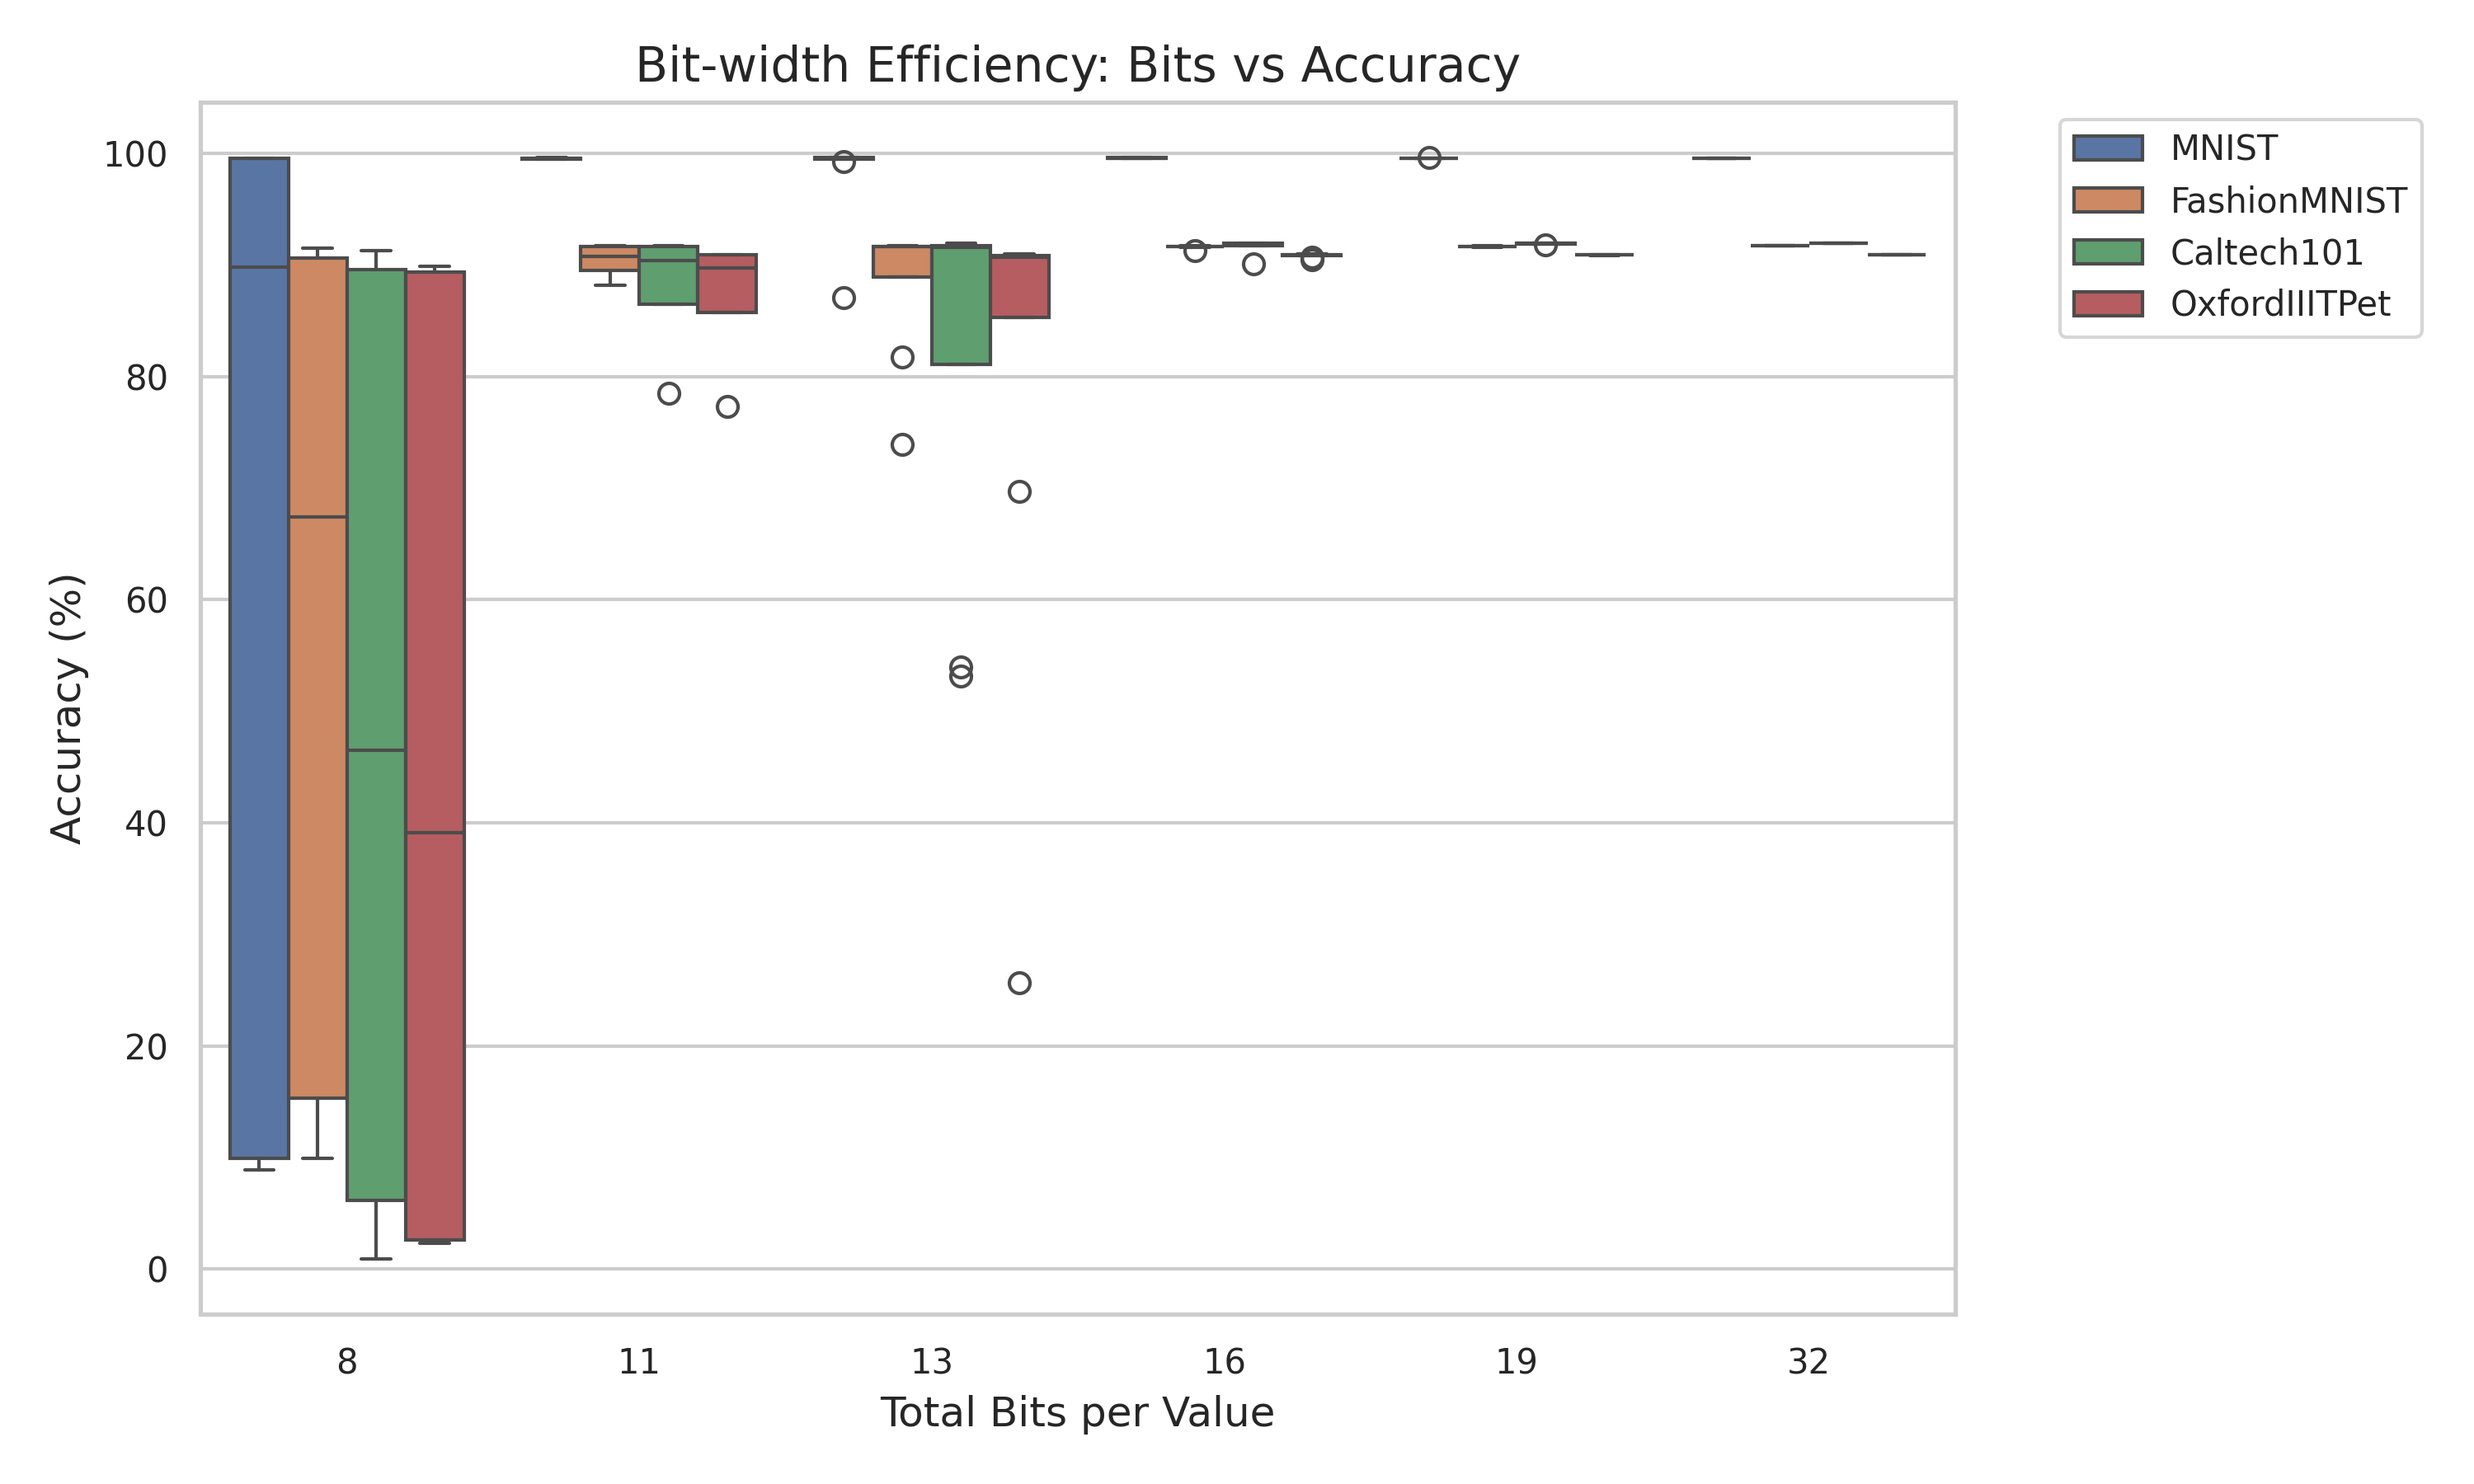
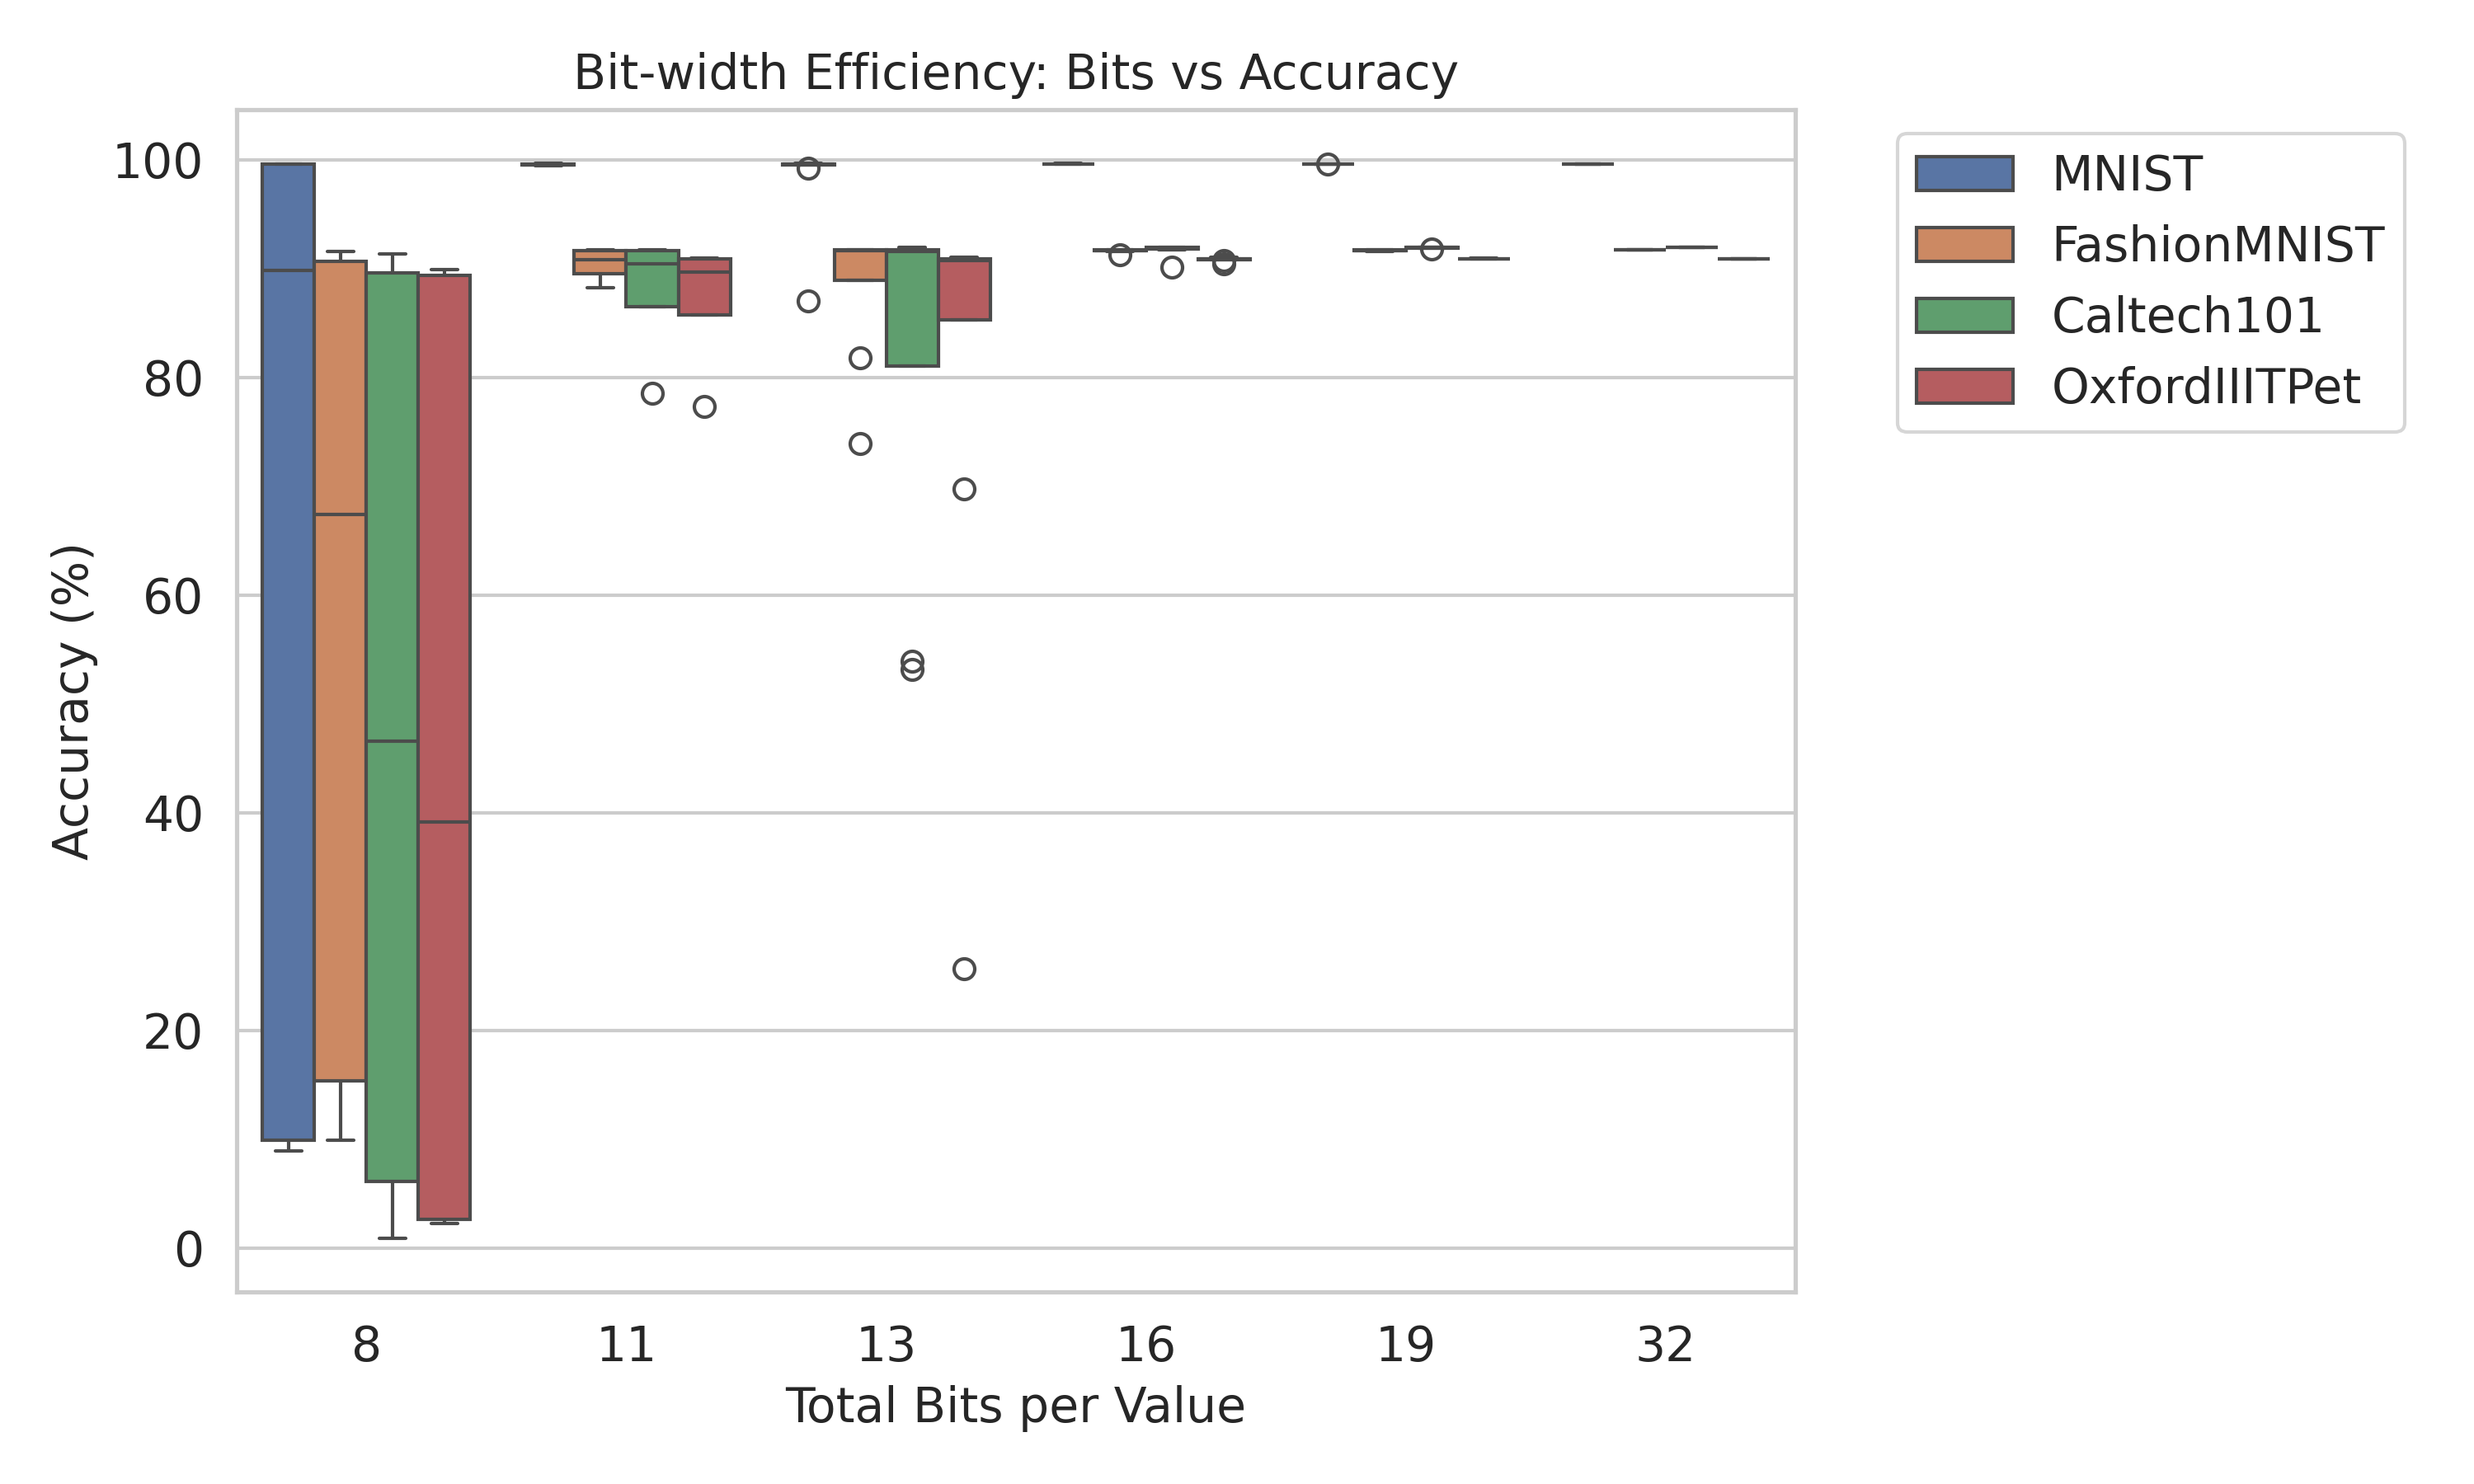
update plots

diff --git a/exps/image_class_analysis.py b/exps/image_class_analysis.py
@@ -2,34 +2,53 @@ import pandas as pd
 import seaborn as sns
 import matplotlib.pyplot as plt
 import os
+import itertools
 
 # Results file from the previous script
 CSV_FILE = "quantization_results.csv"
 OUTPUT_DIR = "analysis_plots"
 
+# Global font size scaling factor (recommended range: 0.8–1.8)
+# 1.0 = original size, 1.2 = +20%, 0.9 = -10%, etc.
+FONT_SIZE_FACTOR = 1.0
+
+
 def setup_style():
-    # Set a professional academic style
+    """Set up a clean, professional academic plotting style"""
     sns.set_theme(style="whitegrid")
+    
+    base_sizes = {
+        'font.size':           14,     # global default font size
+        'axes.titlesize':      14,     # figure title
+        'axes.labelsize':      14,     # x/y axis labels
+        'xtick.labelsize':     14,     # x-axis tick labels
+        'ytick.labelsize':     14,     # y-axis tick labels
+        'legend.fontsize':     14,     # legend text
+        'legend.title_fontsize': 14,   # legend title (if present)
+    }
+    
+    # Apply uniform scaling factor
+    scaled_sizes = {k: v * FONT_SIZE_FACTOR for k, v in base_sizes.items()}
+    
     plt.rcParams.update({
-        'font.size': 12,
-        'axes.titlesize': 14,
-        'axes.labelsize': 12,
-        'xtick.labelsize': 10,
-        'ytick.labelsize': 10,
-        'legend.fontsize': 10,
-        'figure.figsize': (10, 6)
+        **scaled_sizes,
+        'figure.figsize': (10, 6),
+        # Optional: make lines a bit thicker for better visibility
+        'lines.linewidth': 1.8,
     })
+    
     os.makedirs(OUTPUT_DIR, exist_ok=True)
+
 
 def plot_accuracy_by_format(df):
     """
-    Bar plot showing Accuracy for each Format, grouped by Dataset.
-    Useful to see which format performs best overall.
+    Bar plot: Accuracy for each quantization Format, grouped by Dataset.
+    Good for seeing which format performs best overall.
     """
     plt.figure(figsize=(12, 6))
-    # Taking the mean accuracy across rounding modes for a high-level view
-    sns.barplot(data=df, x="Dataset", y="Accuracy", hue="Format", errorbar="sd", palette="viridis")
-    
+    sns.barplot(data=df, x="Dataset", y="Accuracy", hue="Format",
+                errorbar="sd", palette="viridis")
+   
     plt.title("Impact of Quantization Format on Model Accuracy")
     plt.ylabel("Accuracy (%)")
     plt.xlabel("Dataset")
@@ -39,26 +58,26 @@ def plot_accuracy_by_format(df):
     plt.close()
     print("Generated: accuracy_by_format.png")
 
+
 def plot_sqnr_vs_accuracy(df):
     """
-    Scatter plot: Activation SQNR vs Accuracy.
-    This directly answers the reviewer: "Does numerical error correlate with performance?"
+    Scatter plot: Activation SQNR vs final Accuracy.
+    Directly addresses reviewer question: "Does numerical error correlate with performance?"
     """
     plt.figure(figsize=(10, 6))
-    
-    # We use different markers/colors for datasets to distinguish them
+   
     sns.scatterplot(
-        data=df, 
-        x="Activation_SQNR_dB", 
-        y="Accuracy", 
-        hue="Dataset", 
-        style="Format", 
-        s=100, # dot size
+        data=df,
+        x="Activation_SQNR_dB",
+        y="Accuracy",
+        hue="Dataset",
+        style="Format",
+        s=100,          # marker size
         alpha=0.8
     )
-    
+   
     plt.title("Correlation: Numerical Fidelity (SQNR) vs Task Performance (Accuracy)")
-    plt.xlabel("Activation Signal-to-Quantization-Noise Ratio (dB) \n(Higher is less error)")
+    plt.xlabel("Activation Signal-to-Quantization-Noise Ratio (dB) \n(Higher = less error)")
     plt.ylabel("Accuracy (%)")
     plt.grid(True, linestyle="--", alpha=0.7)
     plt.tight_layout()
@@ -66,117 +85,78 @@ def plot_sqnr_vs_accuracy(df):
     plt.close()
     print("Generated: sqnr_vs_accuracy_correlation.png")
 
+
 def plot_rounding_mode_impact(df):
     """
-    Line plot to analyze how Rounding Mode affects Weight MSE.
-    Specific to the reviewer's comment about analyzing weight error.
+    Line plots: Effect of Rounding Mode on Weight MSE — one figure per dataset.
+    Each 'Format' gets a unique combination of color + linestyle + marker.
     """
-    # Filter for one dataset to keep plot clean (assuming behavior is similar across datasets)
-    subset = df[df['Dataset'] == df['Dataset'].unique()[0]]
-    dataset_name = df['Dataset'].unique()[0]
+    datasets = sorted(df['Dataset'].unique())  # consistent order
     
-    plt.figure(figsize=(10, 6))
-    sns.lineplot(
-        data=subset, 
-        x="Rounding_Mode", 
-        y="Weight_MSE", 
-        hue="Format", 
-        marker="o",
-        palette="magma"
-    )
+    # Define style cycles — enough combinations for 6–8 formats
+    markers = ['o', 's', '^', 'D', 'v', 'p', '*', 'X']
+    linestyles = ['-', '--', '-.', ':', (0, (3,1,1,1)), (0, (5,2))]
     
-    plt.title(f"Effect of Rounding Mode on Weight Error (Dataset: {dataset_name})")
-    plt.ylabel("Weight Mean Squared Error (MSE)")
-    plt.xlabel("Rounding Mode Index")
-    plt.xticks(sorted(df['Rounding_Mode'].unique()))
-    plt.tight_layout()
-    plt.savefig(f"{OUTPUT_DIR}/rounding_impact_weight_mse1.png", dpi=300)
-    plt.close()
-    print("Generated: rounding_impact_weight_mse1.png")
-
-
-    # Filter for one dataset to keep plot clean (assuming behavior is similar across datasets)
-    subset = df[df['Dataset'] == df['Dataset'].unique()[1]]
-    dataset_name = df['Dataset'].unique()[1]
+    # Cycle through combinations
+    style_combinations = list(itertools.product(markers, linestyles))
     
-    plt.figure(figsize=(10, 6))
-    sns.lineplot(
-        data=subset, 
-        x="Rounding_Mode", 
-        y="Weight_MSE", 
-        hue="Format", 
-        marker="o",
-        palette="magma"
-    )
-    
-    plt.title(f"Effect of Rounding Mode on Weight Error (Dataset: {dataset_name})")
-    plt.ylabel("Weight Mean Squared Error (MSE)")
-    plt.xlabel("Rounding Mode Index")
-    plt.xticks(sorted(df['Rounding_Mode'].unique()))
-    plt.tight_layout()
-    plt.savefig(f"{OUTPUT_DIR}/rounding_impact_weight_mse2.png", dpi=300)
-    plt.close()
-    print("Generated: rounding_impact_weight_mse2.png")
-
-
-        # Filter for one dataset to keep plot clean (assuming behavior is similar across datasets)
-    subset = df[df['Dataset'] == df['Dataset'].unique()[2]]
-    dataset_name = df['Dataset'].unique()[2]
-    
-    plt.figure(figsize=(10, 6))
-    sns.lineplot(
-        data=subset, 
-        x="Rounding_Mode", 
-        y="Weight_MSE", 
-        hue="Format", 
-        marker="o",
-        palette="magma"
-    )
-    
-    plt.title(f"Effect of Rounding Mode on Weight Error (Dataset: {dataset_name})")
-    plt.ylabel("Weight Mean Squared Error (MSE)")
-    plt.xlabel("Rounding Mode Index")
-    plt.xticks(sorted(df['Rounding_Mode'].unique()))
-    plt.tight_layout()
-    plt.savefig(f"{OUTPUT_DIR}/rounding_impact_weight_mse3.png", dpi=300)
-    plt.close()
-    print("Generated: rounding_impact_weight_mse3.png")
-
-
-        # Filter for one dataset to keep plot clean (assuming behavior is similar across datasets)
-    subset = df[df['Dataset'] == df['Dataset'].unique()[3]]
-    dataset_name = df['Dataset'].unique()[3]
-    
-    plt.figure(figsize=(10, 6))
-    sns.lineplot(
-        data=subset, 
-        x="Rounding_Mode", 
-        y="Weight_MSE", 
-        hue="Format", 
-        marker="o",
-        palette="magma"
-    )
-    
-    plt.title(f"Effect of Rounding Mode on Weight Error (Dataset: {dataset_name})")
-    plt.ylabel("Weight Mean Squared Error (MSE)")
-    plt.xlabel("Rounding Mode Index")
-    plt.xticks(sorted(df['Rounding_Mode'].unique()))
-    plt.tight_layout()
-    plt.savefig(f"{OUTPUT_DIR}/rounding_impact_weight_mse4.png", dpi=300)
-    plt.close()
-    print("Generated: rounding_impact_weight_mse4.png")
+    for i, dataset_name in enumerate(datasets, 1):
+        subset = df[df['Dataset'] == dataset_name].copy()
+        
+        # Get unique formats in this subset
+        formats = sorted(subset['Format'].unique())
+        n_formats = len(formats)
+        
+        plt.figure(figsize=(9, 6))
+        
+        # Use a good categorical palette (adjust name if needed)
+        palette = sns.color_palette("tab10", n_colors=max(10, n_formats))
+        
+        for j, fmt in enumerate(formats):
+            data_fmt = subset[subset['Format'] == fmt]
+            
+            # Get style for this format
+            marker, ls = style_combinations[j % len(style_combinations)]
+            
+            sns.lineplot(
+                data=data_fmt,
+                x="Rounding_Mode",
+                y="Weight_MSE",
+                color=palette[j],
+                linestyle=ls,
+                marker=marker,
+                markersize=8,
+                label=fmt,
+                linewidth=2.0,
+                alpha=0.95
+            )
+        
+        plt.title(f"Effect of Rounding Mode on Weight Error\n(Dataset: {dataset_name})")
+        plt.ylabel("Weight Mean Squared Error (MSE)")
+        plt.xlabel("Rounding Mode Index")
+        plt.xticks(sorted(df['Rounding_Mode'].unique()))
+        
+        # Place legend outside if many formats
+        plt.legend(bbox_to_anchor=(1.02, 1), loc='upper left', title="Format",
+                   frameon=True, fontsize=13)
+        
+        plt.tight_layout()
+        plt.savefig(f"{OUTPUT_DIR}/rounding_impact_weight_mse{i}.png", dpi=300, bbox_inches='tight')
+        plt.close()
+        print(f"Generated: rounding_impact_weight_mse{i}.png")
 
 
 def plot_tradeoff_efficiency(df):
     """
-    Advanced: Plotting Accuracy vs Theoretical Bit Cost.
-    (Approximation: Total Bits = Exp + Sig + 1 sign bit)
+    Box plot: Accuracy vs theoretical bit cost (Bits = Exp + Sig + sign bit).
+    Shows bit-width efficiency across formats and datasets.
     """
+    df = df.copy()
     df['Total_Bits'] = df['Exp_Bits'] + df['Sig_Bits'] + 1
-    
+   
     plt.figure(figsize=(10, 6))
     sns.boxplot(data=df, x="Total_Bits", y="Accuracy", hue="Dataset")
-    
+   
     plt.title("Bit-width Efficiency: Bits vs Accuracy")
     plt.xlabel("Total Bits per Value")
     plt.ylabel("Accuracy (%)")
@@ -186,25 +166,26 @@ def plot_tradeoff_efficiency(df):
     plt.close()
     print("Generated: bitwidth_efficiency.png")
 
+
 if __name__ == "__main__":
     if not os.path.exists(CSV_FILE):
         print(f"Error: {CSV_FILE} not found. Please run the experiment script first.")
         exit()
-        
+       
     print("Loading results...")
     df = pd.read_csv(CSV_FILE)
-    
-    # Ensure numeric types
+   
+    # Ensure numeric columns
     numeric_cols = ["Accuracy", "Weight_MSE", "Activation_SQNR_dB", "Exp_Bits", "Sig_Bits", "Rounding_Mode"]
     for col in numeric_cols:
         df[col] = pd.to_numeric(df[col], errors='coerce')
 
     setup_style()
-    
+   
     print("Generating plots...")
     plot_accuracy_by_format(df)
     plot_sqnr_vs_accuracy(df)
     plot_rounding_mode_impact(df)
     plot_tradeoff_efficiency(df)
-    
+   
     print(f"\nAnalysis complete. Check the '{OUTPUT_DIR}' folder.")
